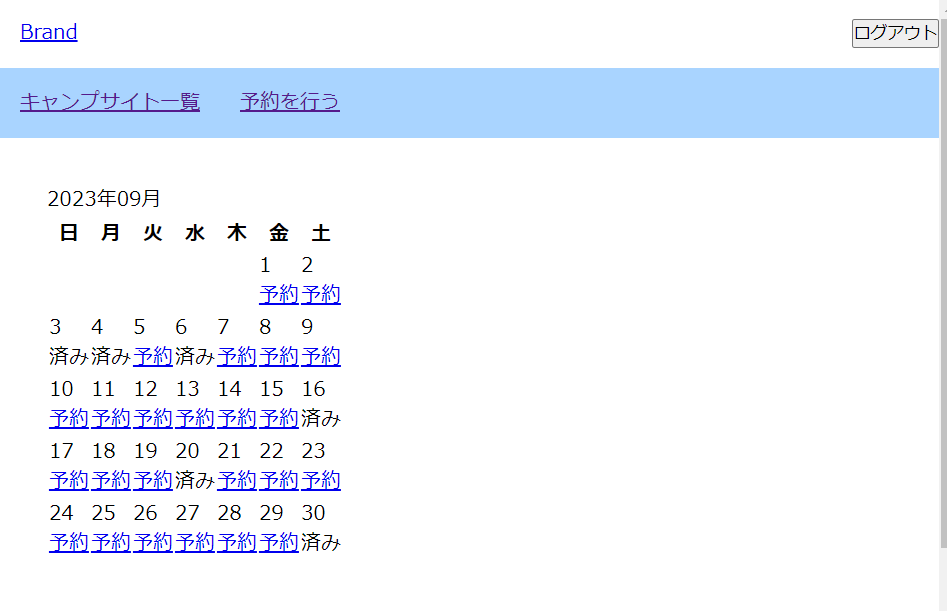
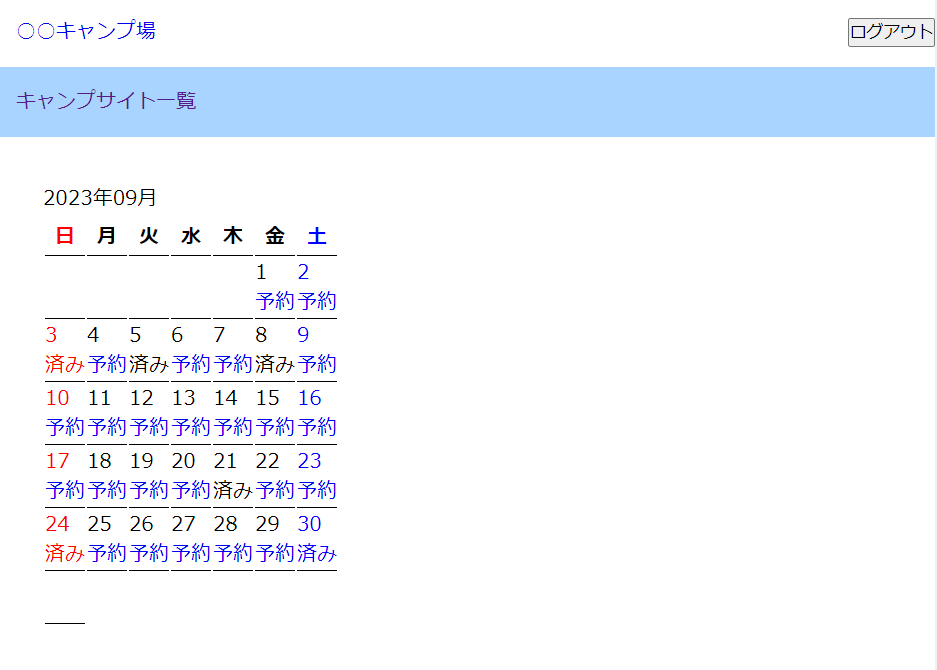
カレンダー調整

Changed region(s): [[0.0309, 0.2799, 0.3714, 0.9329], [0.0, 0.0, 1.0, 0.9018]]

diff --git a/camp-pro/public/css/mst_sites/index.css b/camp-pro/public/css/mst_sites/index.css
@@ -14,9 +14,9 @@
   }
   > .text-box{
     height: 124px;
-    width: 300px;
+    width: 250px;
+    min-width: 150px;
     margin: 18px 2% 18px 4%;
-    border: solid 1px black;
     > .site-name{
       color: rgb(0, 61, 113);
     }
@@ -28,19 +28,13 @@
   }
 }
 div-site-button{
-  width: ;
+  min-width: 40px;
   height: 124px;
   color:blue;
-  border: solid 1px black;
   margin: 18px 0 18px 2%;
   display: flex;
-  /* flex-direction: column;
-  align-items: flex-end; */
   justify-content:flex-end;
   flex-flow: column;
   > a{
-    /* flex-grow: 1; */
-    /* display: block; */
-    /* margin-top: auto; */
   }
 }

diff --git a/camp-pro/public/css/reserves/calendars/single.css b/camp-pro/public/css/reserves/calendars/single.css
@@ -21,3 +21,6 @@ th:nth-of-type(1), td:nth-of-type(1) {
 th:nth-of-type(7), td:nth-of-type(7) {
   color: blue;
 }
+.calender-single {
+  border: black solid 1px;
+}

diff --git a/camp-pro/resources/views/auth/register.blade.php b/camp-pro/resources/views/auth/register.blade.php
@@ -2,20 +2,20 @@
 
 @section('content')
 
-    <h1>管理者登録</h1>
+    <p>会員登録</p>
     @foreach ($errors->all() as $error)
                     <li>{{ $error }}</li>
                 @endforeach
     <form action="{{ route('register') }}" method="post">
     @csrf
-    名前：<input type="text" name="name" value="{{ old('name') }}"><br>
-    メールアドレス：<input type="text" name="email" value="{{ old('email') }}"><br>
-    パスワード：<input type="text" name="password" value="{{ old('pasword') }}"><br>
+    名前：　　　　　：<input type="text" name="name" value="{{ old('name') }}"><br>
+    メールアドレス　：<input type="text" name="email" value="{{ old('email') }}"><br>
+    電話番号　　　　：<input type="text" name="phone" value="{{ old('phone') }}"><br>
+    パスワード　　　：<input type="text" name="password" value="{{ old('password') }}"><br>
     確認用パスワード：<input type="text" name="password_confirmation" value=""><br>
         
-    <button type="submit">管理者登録</button>
+    <button type="submit">会員登録</button>
         
-            
     </form>
     または<a href="{{ route('login') }}">ログイン</a>
 @endsection

diff --git a/camp-pro/resources/views/reserves/calendars/single.blade.php b/camp-pro/resources/views/reserves/calendars/single.blade.php
@@ -13,7 +13,7 @@
         $end_date_num   = date("t",      strtotime($now_date));   //終了の日 
         
 @endphp
-<table class="">
+<table class="calender-single">
       <tr> <!--年月表示-->
         {{ date("Y年m月") }}
       </tr>
@@ -110,3 +110,33 @@ $day = 1;
           </tr>
         </table> --}}
 </div>
+<style>
+  .container {
+  /* font-family: 'Noto Sans JP', sans-serif; */
+  margin-top: 80px;
+}
+a {
+  text-decoration: none;
+}
+th {
+  height: 30px;
+  text-align: center;
+  border-bottom:1px solid #000;
+}
+td {
+  height: 40px;
+  border-bottom:1px solid #000;
+}
+
+.today {
+  background: orange !important;
+}
+th:nth-of-type(1), td:nth-of-type(1) {
+  color: red;
+}
+th:nth-of-type(7), td:nth-of-type(7) {
+  color: blue;
+}
+.calender-single {
+}
+</style>

diff --git a/camp-pro/database/migrations/2014_10_12_000000_create_users_table.php b/camp-pro/database/migrations/2014_10_12_000000_create_users_table.php
@@ -16,13 +16,9 @@ return new class extends Migration
         Schema::create('users', function (Blueprint $table) {
             $table->id();
             $table->string('name');
-            $table->string('last_name')->nullable();
-            $table->string('first_name')->nullable();
-            $table->string('last_name_kana')->nullable();
-            $table->string('first_name_kana')->nullable();
             $table->string('email')->unique();
             $table->timestamp('email_verified_at')->nullable();
-            $table->string('phone',30); //バリデーション大切
+            $table->string('phone',30);
             $table->string('password');
             $table->rememberToken();
             $table->timestamps();

diff --git a/camp-pro/resources/views/layouts/header.blade.php b/camp-pro/resources/views/layouts/header.blade.php
@@ -1,6 +1,6 @@
 <header>  
   <div class="header-1">
-    <a href="#" class="brand">Brand</a>
+    <a href="#" class="brand">○○キャンプ場</a>
     @auth
     <form action="{{ route('logout') }}" method="post">
       @csrf
@@ -10,15 +10,12 @@
     <a href="{{ route('login') }}" class="text-sm text-gray-700 dark:text-gray-500 underline">ログイン</a>
     @endauth
 
-    
-    
   </div>
   <div class="header-2">
-    <a href="">キャンプサイト一覧</a>
-    <a href="">予約を行う</a>
+    @auth
+        <a href="{{ route('mst_sites.index') }}">キャンプサイト一覧</a>
+    @endauth
   </div>
-  
-
 
 </header>
 <style>

diff --git a/camp-pro/resources/views/layouts/auth.blade.php b/camp-pro/resources/views/layouts/auth.blade.php
@@ -1,1 +1,22 @@
-@yield('content')
+<!DOCTYPE html>
+<html lang="ja">
+<head>
+  <meta charset="UTF-8">
+  <meta name="viewport" content="width=device-width, initial-scale=1.0">
+  <meta http-equiv="X-UA-Compatible" content="ie=chrome">
+	<link href="{{ asset('css\layouts\default.blade.css') }}" rel="stylesheet">
+	{{-- 子ブレード個別のスタイルシート反映 --}}
+	@stack('css')
+	<title>〇〇キャンプ場</title>
+</head>
+<body>
+	@include('layouts.header')
+	<div class="over">
+		<div class="over2">
+			<div class="content-box">
+				@yield('content')
+			</div>
+		</div>
+	</div>
+</body>
+</html>

diff --git a/camp-pro/resources/views/mst_sites/form.blade.php b/camp-pro/resources/views/mst_sites/form.blade.php
@@ -1,4 +1,6 @@
   @csrf
   <label for="">サイト名</label><input type="text" name="name" value="{{ $mst_site->name }}"><br>
   <label for="">最大利用人数<input type="number" name="people_num_max" value="{{ $mst_site->people_num_max }}"></label><br>
-  <label for="">とりま登録者情報も自動追加<input type="number" name="created_by" value="1"><br>
+  {{-- <label for="">とりま登録者情報も自動追加<input type="number" name="created_by" value="1"><br> --}}
+    
+    <input type="hidden" name="updated_by" value="{{ Auth::id() }}">

diff --git a/camp-pro/resources/views/mst_sites/index.blade.php b/camp-pro/resources/views/mst_sites/index.blade.php
@@ -11,12 +11,14 @@
 <input type="checkbox" id="pop-up">
 @include('mst_sites.create')
 
-  <h3>index</h3>
   @foreach ($mst_sites as $mst_site) 
     <div class="mst-site-box">
       <div class="image-box">
         {{-- TODO：画像のCRUD機能 --}}
-        <img src="" alt="">
+        @php
+            $ran = rand(1,5);
+        @endphp
+        <img src="{{ asset('images/site'.$ran.'.jpg') }}" alt="サイト画像" width="250" height="124">
       </div>
         <div class="text-box">
           <p class="site-name">{{ $mst_site->name }}</p>

diff --git a/camp-pro/database/seeders/UserSeeder.php b/camp-pro/database/seeders/UserSeeder.php
@@ -18,13 +18,9 @@ class UserSeeder extends Seeder
         //
         User::create([
             'name'=>'後藤哲志', 
-            'last_name'=>'後藤',
-            'first_name'=>'哲志',
-            'last_name_kana'=>'ゴトウ',
-            'first_name_kana'=>'サトシ',
-            'email'=>'rego.satosi@gmail.com',
+            'email'=>'@gmail.com',
             // 'email_verified_at'=>'0',
-            'phone'=>'09001224711',
+            'phone'=>'09011110122',
             'password'=>bcrypt('01220122')
         ]);
     }

diff --git a/camp-pro/resources/views/mst_sites/create.blade.php b/camp-pro/resources/views/mst_sites/create.blade.php
@@ -10,7 +10,8 @@
               @csrf
               <label for="">サイト名</label><input type="text" name="name" value=""><br>
               <label for="">最大利用人数<input type="number" name="people_num_max" value=""></label><br>
-              <label for="">とりま登録者情報も自動追加<input type="number" name="created_by" value="1"><br>
+              
+            <input type="hidden" name="created_by" value="{{ Auth::id() }}">
 
               <button type="submit">新規登録</button>
           </form>

diff --git a/camp-pro/app/Actions/Fortify/CreateNewUser.php b/camp-pro/app/Actions/Fortify/CreateNewUser.php
@@ -29,12 +29,14 @@ class CreateNewUser implements CreatesNewUsers
                 Rule::unique(User::class),
             ],
             'password' => $this->passwordRules(),
+            'phone' => ['required', 'string', 'max:30'],
         ])->validate();
 
         return User::create([
             'name' => $input['name'],
             'email' => $input['email'],
             'password' => Hash::make($input['password']),
+            'phone' => $input['phone'],
         ]);
     }
 }
